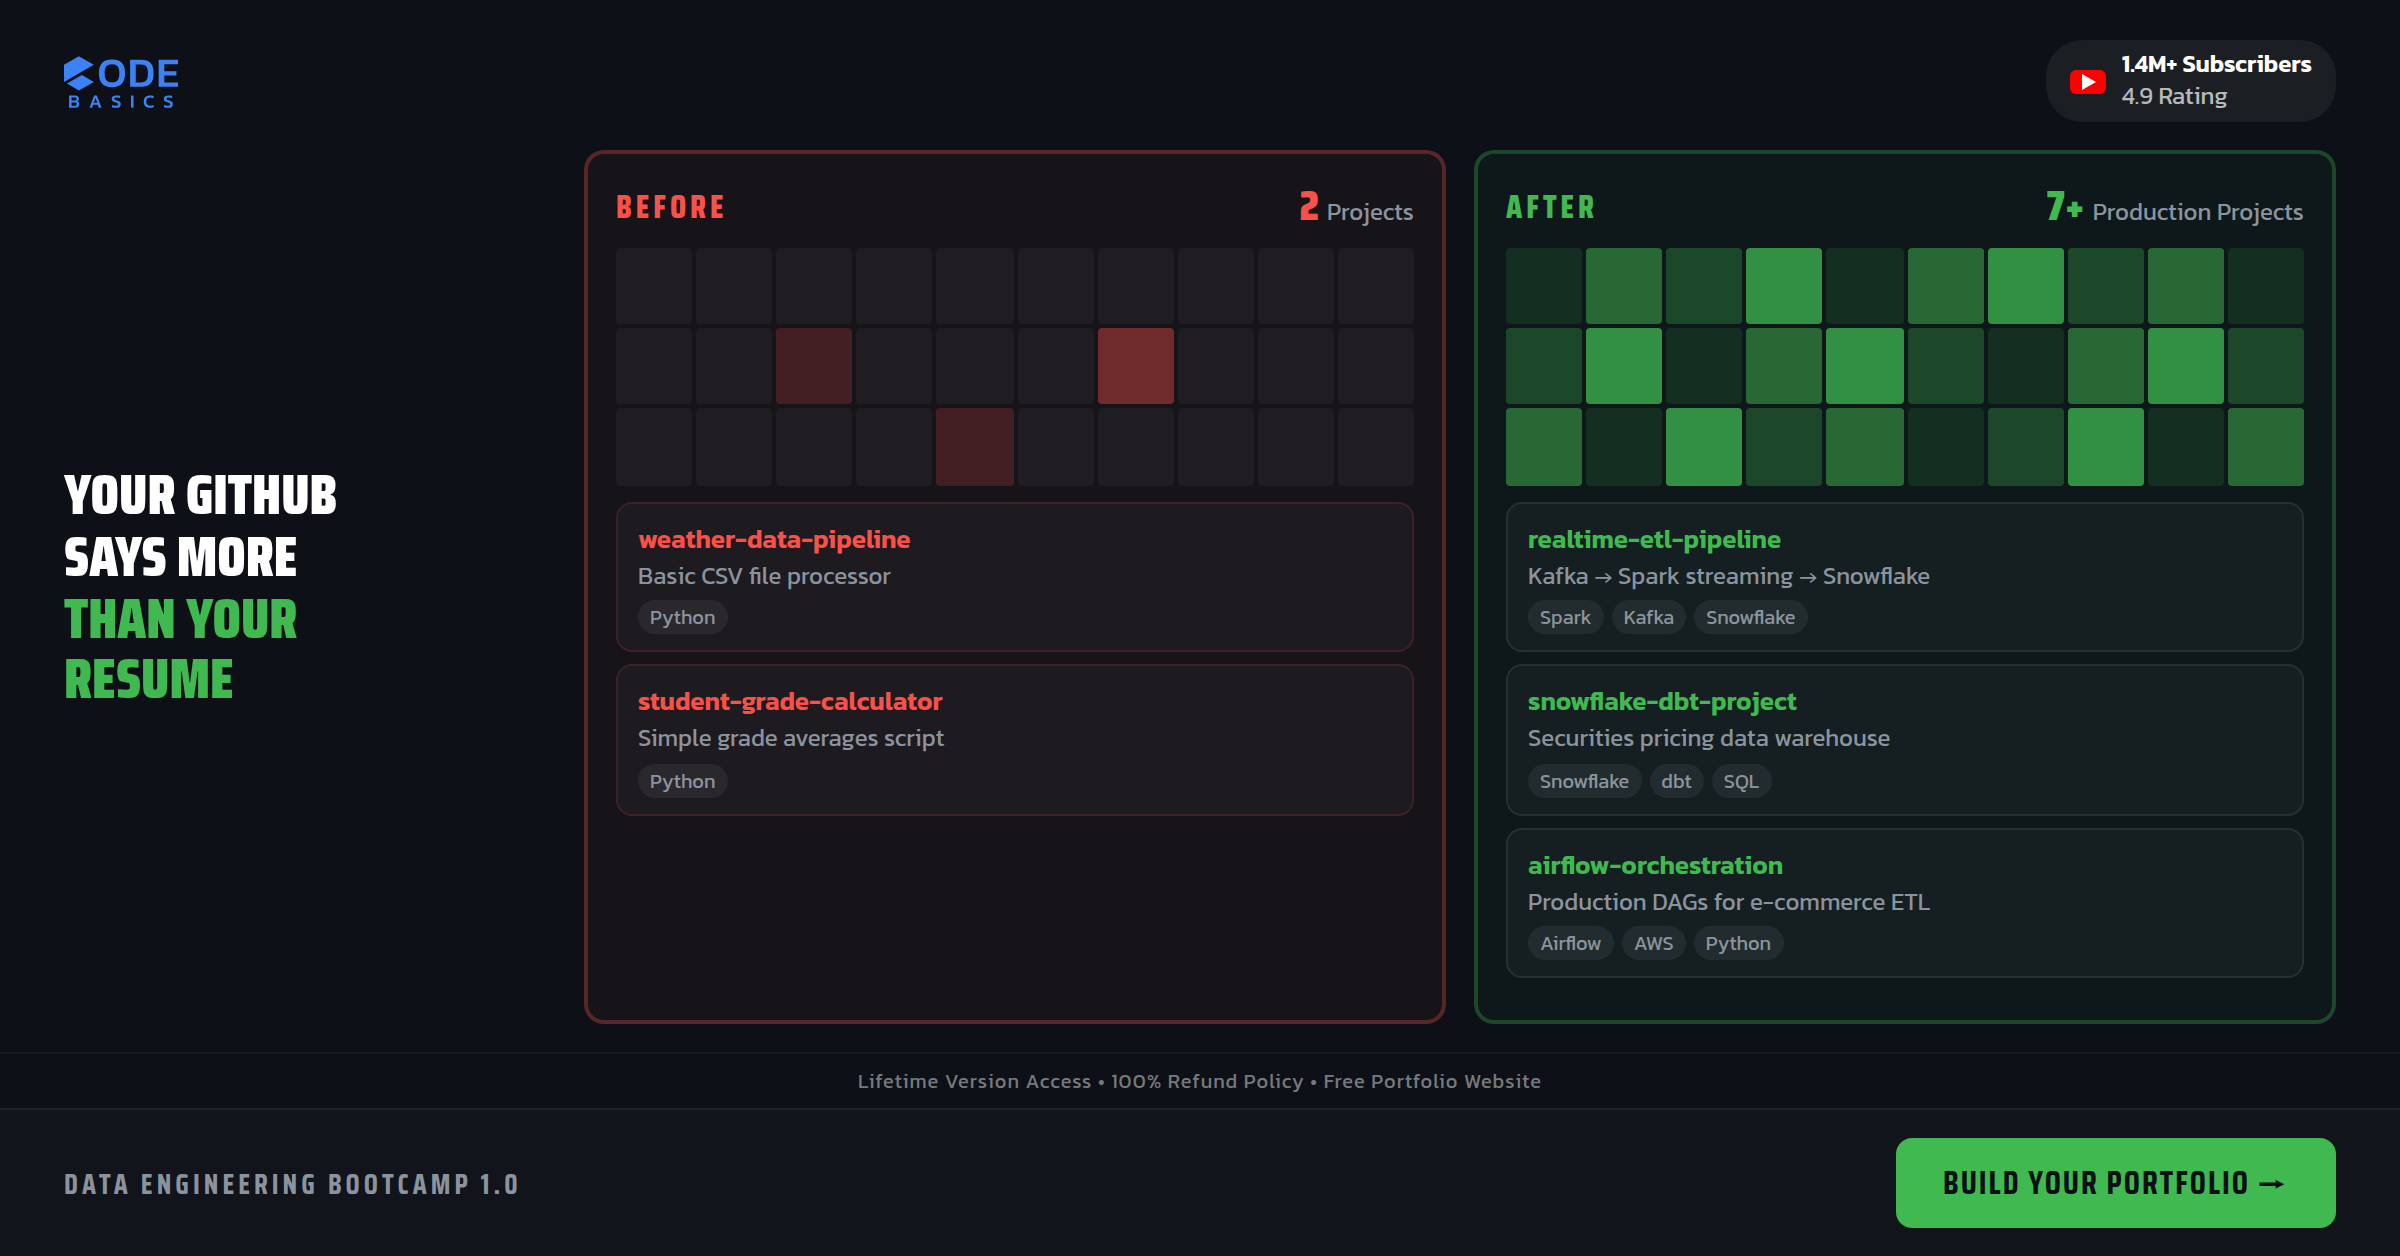
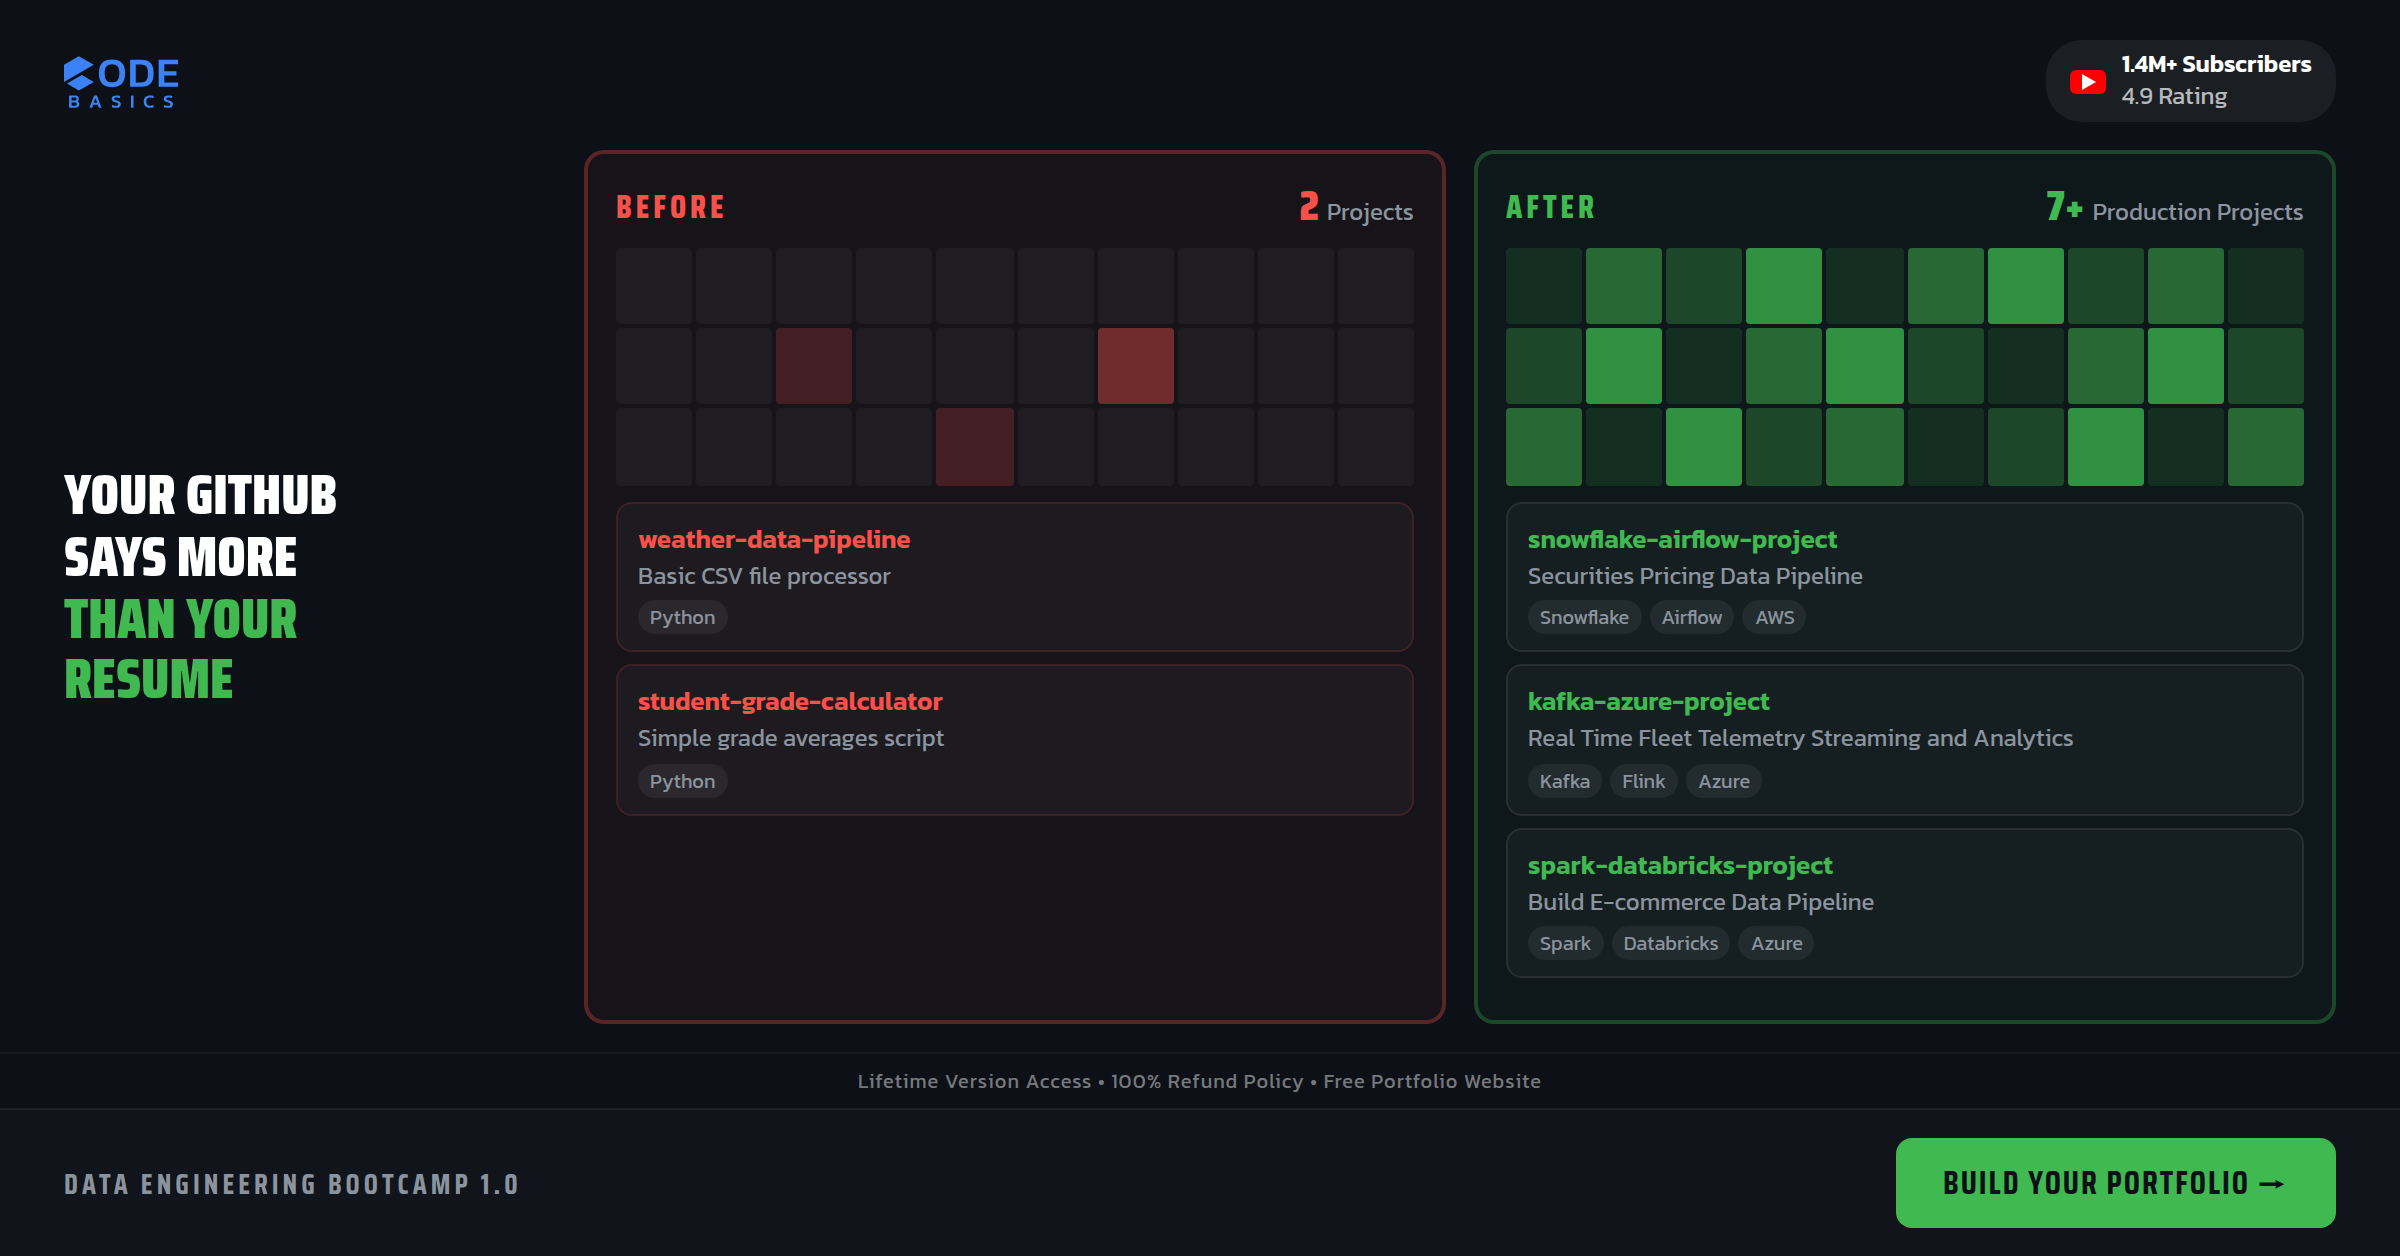
Fix BONUS_GITHUB_DETAILED: update AFTER project cards in all 3 formats
Updated 3 project cards in AFTER section:
1. snowflake-airflow-project - Securities Pricing Data Pipeline (Snowflake, Airflow, AWS)
2. kafka-azure-project - Real Time Fleet Telemetry Streaming and Analytics (Kafka, Flink, Azure)
3. spark-databricks-project - Build E-commerce Data Pipeline (Spark, Databricks, Azure)

Removed all references to dbt, realtime-etl-pipeline, snowflake-dbt-project, airflow-orchestration.
Regenerated all 3 PNGs at 2x resolution.

https://claude.ai/code/session_01TbjDQjG9557EXEwBaycqRj

Changed region(s): [[0.625, 0.5279, 0.8438, 0.6521], [0.625, 0.6831, 0.7812, 0.7763], [0.625, 0.4037, 0.8125, 0.4968]]

diff --git a/fix-github-detailed.js b/fix-github-detailed.js
@@ -1,0 +1,77 @@
+const fs = require('fs');
+const path = require('path');
+
+const files = [
+  'ads/square/BONUS_GITHUB_DETAILED_SQUARE_1080x1080.html',
+  'ads/landscape/BONUS_GITHUB_DETAILED_LANDSCAPE_1200x628.html',
+  'ads/story/BONUS_GITHUB_DETAILED_STORY_1080x1920.html'
+];
+
+// Old project card content to replace
+const oldCards = [
+  {
+    name: 'realtime-etl-pipeline',
+    desc: 'Kafka → Spark streaming → Snowflake',
+    tags: '<span class="repo-tag">Spark</span><span class="repo-tag">Kafka</span><span class="repo-tag">Snowflake</span>'
+  },
+  {
+    name: 'snowflake-dbt-project',
+    desc: 'Securities pricing data warehouse',
+    tags: '<span class="repo-tag">Snowflake</span><span class="repo-tag">dbt</span><span class="repo-tag">SQL</span>'
+  },
+  {
+    name: 'airflow-orchestration',
+    desc: 'Production DAGs for e-commerce ETL',
+    tags: '<span class="repo-tag">Airflow</span><span class="repo-tag">AWS</span><span class="repo-tag">Python</span>'
+  }
+];
+
+// New project card content
+const newCards = [
+  {
+    name: 'snowflake-airflow-project',
+    desc: 'Securities Pricing Data Pipeline',
+    tags: '<span class="repo-tag">Snowflake</span><span class="repo-tag">Airflow</span><span class="repo-tag">AWS</span>'
+  },
+  {
+    name: 'kafka-azure-project',
+    desc: 'Real Time Fleet Telemetry Streaming and Analytics',
+    tags: '<span class="repo-tag">Kafka</span><span class="repo-tag">Flink</span><span class="repo-tag">Azure</span>'
+  },
+  {
+    name: 'spark-databricks-project',
+    desc: 'Build E-commerce Data Pipeline',
+    tags: '<span class="repo-tag">Spark</span><span class="repo-tag">Databricks</span><span class="repo-tag">Azure</span>'
+  }
+];
+
+files.forEach(filePath => {
+  const fullPath = path.resolve(__dirname, filePath);
+  let html = fs.readFileSync(fullPath, 'utf8');
+
+  // Replace each old card with new card
+  for (let i = 0; i < oldCards.length; i++) {
+    // Replace repo-name
+    html = html.replace(
+      `<div class="repo-name">${oldCards[i].name}</div>`,
+      `<div class="repo-name">${newCards[i].name}</div>`
+    );
+
+    // Replace repo-desc
+    html = html.replace(
+      `<div class="repo-desc">${oldCards[i].desc}</div>`,
+      `<div class="repo-desc">${newCards[i].desc}</div>`
+    );
+
+    // Replace repo-tags
+    html = html.replace(
+      `<div class="repo-tags">${oldCards[i].tags}</div>`,
+      `<div class="repo-tags">${newCards[i].tags}</div>`
+    );
+  }
+
+  fs.writeFileSync(fullPath, html, 'utf8');
+  console.log('Updated:', filePath);
+});
+
+console.log('Done - all 3 BONUS_GITHUB_DETAILED files updated');

diff --git a/ads/square/BONUS_GITHUB_DETAILED_SQUARE_1080x1080.html b/ads/square/BONUS_GITHUB_DETAILED_SQUARE_1080x1080.html
@@ -116,19 +116,19 @@ body{width:1080px;height:1080px;overflow:hidden;font-family:'Kanit',sans-serif}
         </div>
         <div class="repo-list">
           <div class="repo-card">
-            <div class="repo-name">realtime-etl-pipeline</div>
-            <div class="repo-desc">Kafka → Spark streaming → Snowflake</div>
-            <div class="repo-tags"><span class="repo-tag">Spark</span><span class="repo-tag">Kafka</span><span class="repo-tag">Snowflake</span></div>
+            <div class="repo-name">snowflake-airflow-project</div>
+            <div class="repo-desc">Securities Pricing Data Pipeline</div>
+            <div class="repo-tags"><span class="repo-tag">Snowflake</span><span class="repo-tag">Airflow</span><span class="repo-tag">AWS</span></div>
           </div>
           <div class="repo-card">
-            <div class="repo-name">snowflake-dbt-project</div>
-            <div class="repo-desc">Securities pricing data warehouse</div>
-            <div class="repo-tags"><span class="repo-tag">Snowflake</span><span class="repo-tag">dbt</span><span class="repo-tag">SQL</span></div>
+            <div class="repo-name">kafka-azure-project</div>
+            <div class="repo-desc">Real Time Fleet Telemetry Streaming and Analytics</div>
+            <div class="repo-tags"><span class="repo-tag">Kafka</span><span class="repo-tag">Flink</span><span class="repo-tag">Azure</span></div>
           </div>
           <div class="repo-card">
-            <div class="repo-name">airflow-orchestration</div>
-            <div class="repo-desc">Production DAGs for e-commerce ETL</div>
-            <div class="repo-tags"><span class="repo-tag">Airflow</span><span class="repo-tag">AWS</span><span class="repo-tag">Python</span></div>
+            <div class="repo-name">spark-databricks-project</div>
+            <div class="repo-desc">Build E-commerce Data Pipeline</div>
+            <div class="repo-tags"><span class="repo-tag">Spark</span><span class="repo-tag">Databricks</span><span class="repo-tag">Azure</span></div>
           </div>
         </div>
         <div class="stat-row"><div class="stat-num">7+</div><div class="stat-label">Production Projects</div></div>

diff --git a/ads/story/BONUS_GITHUB_DETAILED_STORY_1080x1920.html b/ads/story/BONUS_GITHUB_DETAILED_STORY_1080x1920.html
@@ -122,19 +122,19 @@ body{width:1080px;height:1920px;overflow:hidden;font-family:'Kanit',sans-serif}
         </div>
         <div class="repo-list">
           <div class="repo-card">
-            <div class="repo-name">realtime-etl-pipeline</div>
-            <div class="repo-desc">Kafka → Spark streaming → Snowflake</div>
-            <div class="repo-tags"><span class="repo-tag">Spark</span><span class="repo-tag">Kafka</span><span class="repo-tag">Snowflake</span></div>
+            <div class="repo-name">snowflake-airflow-project</div>
+            <div class="repo-desc">Securities Pricing Data Pipeline</div>
+            <div class="repo-tags"><span class="repo-tag">Snowflake</span><span class="repo-tag">Airflow</span><span class="repo-tag">AWS</span></div>
           </div>
           <div class="repo-card">
-            <div class="repo-name">snowflake-dbt-project</div>
-            <div class="repo-desc">Securities pricing data warehouse</div>
-            <div class="repo-tags"><span class="repo-tag">Snowflake</span><span class="repo-tag">dbt</span><span class="repo-tag">SQL</span></div>
+            <div class="repo-name">kafka-azure-project</div>
+            <div class="repo-desc">Real Time Fleet Telemetry Streaming and Analytics</div>
+            <div class="repo-tags"><span class="repo-tag">Kafka</span><span class="repo-tag">Flink</span><span class="repo-tag">Azure</span></div>
           </div>
           <div class="repo-card">
-            <div class="repo-name">airflow-orchestration</div>
-            <div class="repo-desc">Production DAGs for e-commerce ETL</div>
-            <div class="repo-tags"><span class="repo-tag">Airflow</span><span class="repo-tag">AWS</span><span class="repo-tag">Python</span></div>
+            <div class="repo-name">spark-databricks-project</div>
+            <div class="repo-desc">Build E-commerce Data Pipeline</div>
+            <div class="repo-tags"><span class="repo-tag">Spark</span><span class="repo-tag">Databricks</span><span class="repo-tag">Azure</span></div>
           </div>
         </div>
       </div>

diff --git a/ads/landscape/BONUS_GITHUB_DETAILED_LANDSCAPE_1200x628.html b/ads/landscape/BONUS_GITHUB_DETAILED_LANDSCAPE_1200x628.html
@@ -121,19 +121,19 @@ body{width:1200px;height:628px;overflow:hidden;font-family:'Kanit',sans-serif}
         </div>
         <div class="repo-list">
           <div class="repo-card">
-            <div class="repo-name">realtime-etl-pipeline</div>
-            <div class="repo-desc">Kafka → Spark streaming → Snowflake</div>
-            <div class="repo-tags"><span class="repo-tag">Spark</span><span class="repo-tag">Kafka</span><span class="repo-tag">Snowflake</span></div>
+            <div class="repo-name">snowflake-airflow-project</div>
+            <div class="repo-desc">Securities Pricing Data Pipeline</div>
+            <div class="repo-tags"><span class="repo-tag">Snowflake</span><span class="repo-tag">Airflow</span><span class="repo-tag">AWS</span></div>
           </div>
           <div class="repo-card">
-            <div class="repo-name">snowflake-dbt-project</div>
-            <div class="repo-desc">Securities pricing data warehouse</div>
-            <div class="repo-tags"><span class="repo-tag">Snowflake</span><span class="repo-tag">dbt</span><span class="repo-tag">SQL</span></div>
+            <div class="repo-name">kafka-azure-project</div>
+            <div class="repo-desc">Real Time Fleet Telemetry Streaming and Analytics</div>
+            <div class="repo-tags"><span class="repo-tag">Kafka</span><span class="repo-tag">Flink</span><span class="repo-tag">Azure</span></div>
           </div>
           <div class="repo-card">
-            <div class="repo-name">airflow-orchestration</div>
-            <div class="repo-desc">Production DAGs for e-commerce ETL</div>
-            <div class="repo-tags"><span class="repo-tag">Airflow</span><span class="repo-tag">AWS</span><span class="repo-tag">Python</span></div>
+            <div class="repo-name">spark-databricks-project</div>
+            <div class="repo-desc">Build E-commerce Data Pipeline</div>
+            <div class="repo-tags"><span class="repo-tag">Spark</span><span class="repo-tag">Databricks</span><span class="repo-tag">Azure</span></div>
           </div>
         </div>
       </div>
